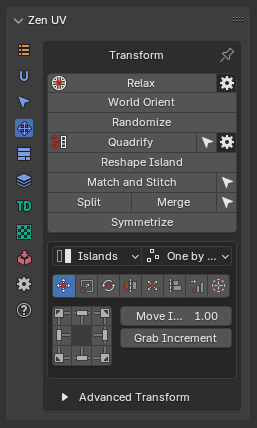
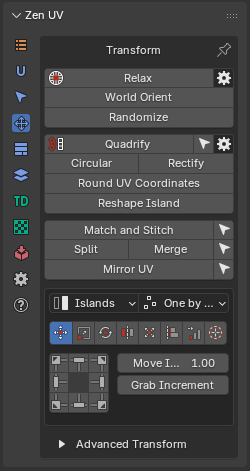
update to v5.1.0

diff --git a/mkdocs/transform.md b/mkdocs/transform.md
@@ -351,6 +351,78 @@ First, you need to select a part of the mesh with the correct coordinates. The o
 
 ---
 
+### Round UV Coordinates
+
+Rounds the value of each UV coordinate to the specified value.
+
+!!! Properties
+    ![Round UV Coordinates](img/screen/transform/round_uv_coordinates_prop.png)
+
+- **Axis** - Influence axis selection
+    - *X* - Axis X
+    - *Y* - Axis Y
+- **Rounding Step X** - Step to which the value will be rounded along X axis
+- **Rounding Step Y** - Step to which the value will be rounded along Y axis
+- **Lock Step Values** - Lock Step Values
+
+|![Round UV Coordinates](img/screen/transform/RoundUvCoordinatesExample.gif)|
+|-|
+|Round UV Coordinates Example|
+
+---
+
+### Circular
+
+Transform selection to the circular shape.
+
+!!! Properties
+    ![Circular panel](img/screen/transform/circolar_op_prop.png)
+
+- **Evenly** - Arrange the vertices evenly
+- **Amount** - Position along the vector from start to end, in percent (0-100)
+- **Radius mode** - Determines how to set the radius of a circle
+    - *Automatically* - Calculate radius automatically
+    - *Custom* - Use manually entered radius
+- **Radius** - Circle radius
+
+|![Circular Example](img/screen/transform/op_circular_example.gif)|
+|-|
+|Circular Example|
+
+---
+
+### Rectify
+
+Transforms the selected island into a rectangular shape
+
+!!! Properties
+    ![Rectify Properties](img/screen/transform/rectify_op_prop.png)
+
+- **Reference** - Defines what the transformation is based on
+    - *Island Bounds* - Use island bounds as reference
+    - *Selection* - Use user selection as reference
+- **Orient To Axis** - Auto-orient island to nearest axis
+- **Spacing** - How to create spaces between points
+    - *UV* - From current UV positions
+    - *Geometry* - As it is in geometry
+    - *Evenly* - Evenly
+- **Amount** - Position along the vector from start to end, in percent (0-100)
+- **Relax** - Enable relaxation of adjacent vertices
+- **Relax Method** - Method of Relaxation
+    - *Angle Based* - Uses Angle Based Flattening (ABF). This method gives a good 2D representation of a mesh
+    - *Conformal* - Uses Least Squares Conformal Mapping (LSCM). This usually results in a less accurate UV mapping than Angle Based, but performs better on simpler objects
+    - *Minimum Stretch* - Uses Scalable Locally Injective Mapping (SLIM). This tries to minimize distortion for both areas and angles
+- **Pin** - Set the pin to the vertices to be processed
+- **Select Mode** - Select vertices based on their position relative to the bounding box
+    - *Skip* - Do not select vertices
+    - *Border* - Select vertices on the border of the bounding box
+    - *Inside* - Select vertices strictly inside the bounding box
+    - *Outside* - Select vertices outside the bounding box
+
+|![Rectify Example](img/screen/transform/op_rectify_example.gif)|
+|-|
+|Rectify Example|
+
 ## Unified Transform System
 
 !!! Panel

diff --git a/mkdocs/tutorial/emergency_light/emergency_light_rus.md b/mkdocs/tutorial/emergency_light/emergency_light_rus.md
@@ -398,6 +398,12 @@
 
 ### Уменьшение свободного места с помощью стаков (оверлапов)
 
+!!! Warning
+    Перед тем как продолжить, убедитесь, что установлена **Zen UV Core Library**.  
+    Без этой библиотеки результат стакования будет упрощённым.  
+    Инструкцию по установке вы найдёте по ссылке:  
+    [Установка Zen UV Core Library](https://zenmastersteam.github.io/Zen-UV/latest/installation/#zen-uv-core-library)
+
 1. На этом этапе имеем плотно упакованные детали и работу можно считать завершенной. Но если проанализировать конструкцию модели, можно заметить, что некоторые острова выглядят похоже и даже являются копией друг друга. Например, вырезы под болты, сами болты, некоторые мелкие детали и т.д. Для экономии места на текстуре одинаковые острова можно сложить один на другой. С точки зрения создания UV координат этот процесс называется **Stacking**.
     - Перейдите на вкладку [Stack](../../stack.md).
     - Нажмите кнопку [Replicas](../../stack.md#replicas). Теперь есть выделенные острова, которые имеют копии. Эти острова называются **Replicas**. Причем, их прототипы остались не выделенными.

diff --git a/mkdocs/tutorial/emergency_light/emergency_light_ukr.md b/mkdocs/tutorial/emergency_light/emergency_light_ukr.md
@@ -401,6 +401,12 @@
 
 ### Зменшення вільного місця за допомогою стакування
 
+!!! Warning
+    Перш ніж продовжити, переконайтеся, що **Zen UV Core Library** встановлено.  
+    Без цієї бібліотеки ви отримаєте спрощений результат стакування.  
+    Інструкцію з встановлення можна знайти за посиланням:  
+    [Встановлення Zen UV Core Library](https://zenmastersteam.github.io/Zen-UV/latest/installation/#zen-uv-core-library)
+
 1. На цьому етапі маємо щільно спаковані деталі і роботу можна вважати завершеною. Але якщо проаналізувати конструкцію моделі, можна помітити що деякі острови виглядають схоже і навіть є копією один одного. Наприклад вирізи під болти, самі болти, деякі дрібні деталі, тощо. Для економії місця на текстурі одинакові острови можна скласти один на інший. З точки зору створення UV координат цей процес називається **Stacking**.
     - Відкрийте вкладку [Stack](../../stack.md).
     - Натисніть кнопку [Replicas](../../stack.md#replicas). Тепер маємо виділені острови які мають копії. Ці острови називаються **Replicas**. Причому їх прототипи залишилися не виділеними.

diff --git a/mkdocs/changelg/release_note_5.1.0.md b/mkdocs/changelg/release_note_5.1.0.md
@@ -1,0 +1,34 @@
+# Version 5.1.0
+
+## **General**
+
+- IMPORTANT: Zen UV add-on has changed from Legacy add-on to Extension.
+- Unwrella Connect support.  
+- New operators.  
+- Fixes.  
+
+## **System**
+
+- Zen UV add-on has changed from Legacy add-on to Extension.
+- Improved and refined the **Update Zen UV** procedure.  
+- Enhanced saving process of the **Core Library** during update.  
+- Added a tracking and warning system for multiple installed copies of the add-on.  
+- Fixed an issue with Core Library registration when it was already in the correct folder.  
+- Fixed an update issue when Zen UV was installed outside the default folder.  
+- Fixed a startup error of Zen UV in **Blender Background Mode**.  
+- **Sticky UV Editor** updated for Blender 4.5 and above.  
+
+## **Transform Sys**
+
+- Added **Rectify** operator for transforming selection into a rectangle.  
+- Added **Circular** operator for transforming selection into a circle.  
+- Added operator for rounding UV coordinate values.  
+- Fixed an issue when **Zen Sync** switched to *Face* mode after toggling.  
+
+## **Trimsheet Sys**
+
+- Added support for simple SVG files with limited trims attributes.  
+
+## **Fixes**
+
+- Fixed the **Copy / Paste** system where copied islands reverted to their previous state.  

diff --git a/mkdocs/tutorial/emergency_light/emergency_light_eng.md b/mkdocs/tutorial/emergency_light/emergency_light_eng.md
@@ -396,6 +396,12 @@ The previous stage of island creation and unwrapping is completed. Now it's time
 
 ### Reduce empty UV space by stacking
 
+!!! Warning
+    Before proceeding, make sure that the **Zen UV Core Library** is installed.  
+    Without this library, you will get a simplified stacking result.  
+    Instructions for installation can be found here:  
+    [Zen UV Core Library installation](https://zenmastersteam.github.io/Zen-UV/latest/installation/#zen-uv-core-library)
+
 1. At this stage, we have tightly packed parts and the work can be considered complete. But if you analyze the construction of the model, you will notice that some islands look similar and are even copies of each other. For example, the cutouts for bolts, the bolts themselves, some small details, etc. To save space on the texture, identical islands can be stacked on top of each other. In terms of creating UV coordinates, this process is called **Stacking**.
     - Open the [**Stack**](../../stack.md) tab.
     - Click the [**Replicas**](../../stack.md#replicas) button. Now we have selected islands that have copies. These islands are called **Replicas**. And their prototypes remain unselected.

diff --git a/mkdocs/unwrap.md b/mkdocs/unwrap.md
@@ -72,7 +72,15 @@ The main modes of operation are **Face** and **Edge**. Vertex mode is used as an
 
 This mode will create seams around the selected polygons. The entire mesh will be unwrapped based on the existing (and newly added) seams, depending on the **Processing Mode**. In fact, you will create a new island from the selected polygons.
 
-#### Edge Selection Mode.
+In case the object has no open edges (for example, a sphere), and you select all polygons before running the **Zen Unwrap** operator, the following situation may occur:  
+the operator first removes all seams (since all polygons are selected) and cannot create new ones, because there are no borders available.  
+
+As a result, you will receive a warning in the form of a popup message.
+
+![no open edges popup](img/screen/unwrap/zwrp_nothing_produced_popup.png)
+
+
+#### Edge selection mode.
 
 In this mode, all selected edges will be marked as seams and then the mesh will be unwrapped.
 

diff --git a/mkdocs/changelg.md b/mkdocs/changelg.md
@@ -1,5 +1,6 @@
 # Changelog
 ---
+- [Version 5.1.0](changelg/release_note_5.1.0.md) *Sep 5, 2025*
 - [Version 5.0.3](changelg/release_note_5.0.3.md) *Jun 17, 2025*
 - [Version 5.0.2](changelg/release_note_5.0.2.md) *Jun 12, 2025*
 - [Version 5.0.1](changelg/release_note_5.0.1.md) *Apr 8, 2025*
